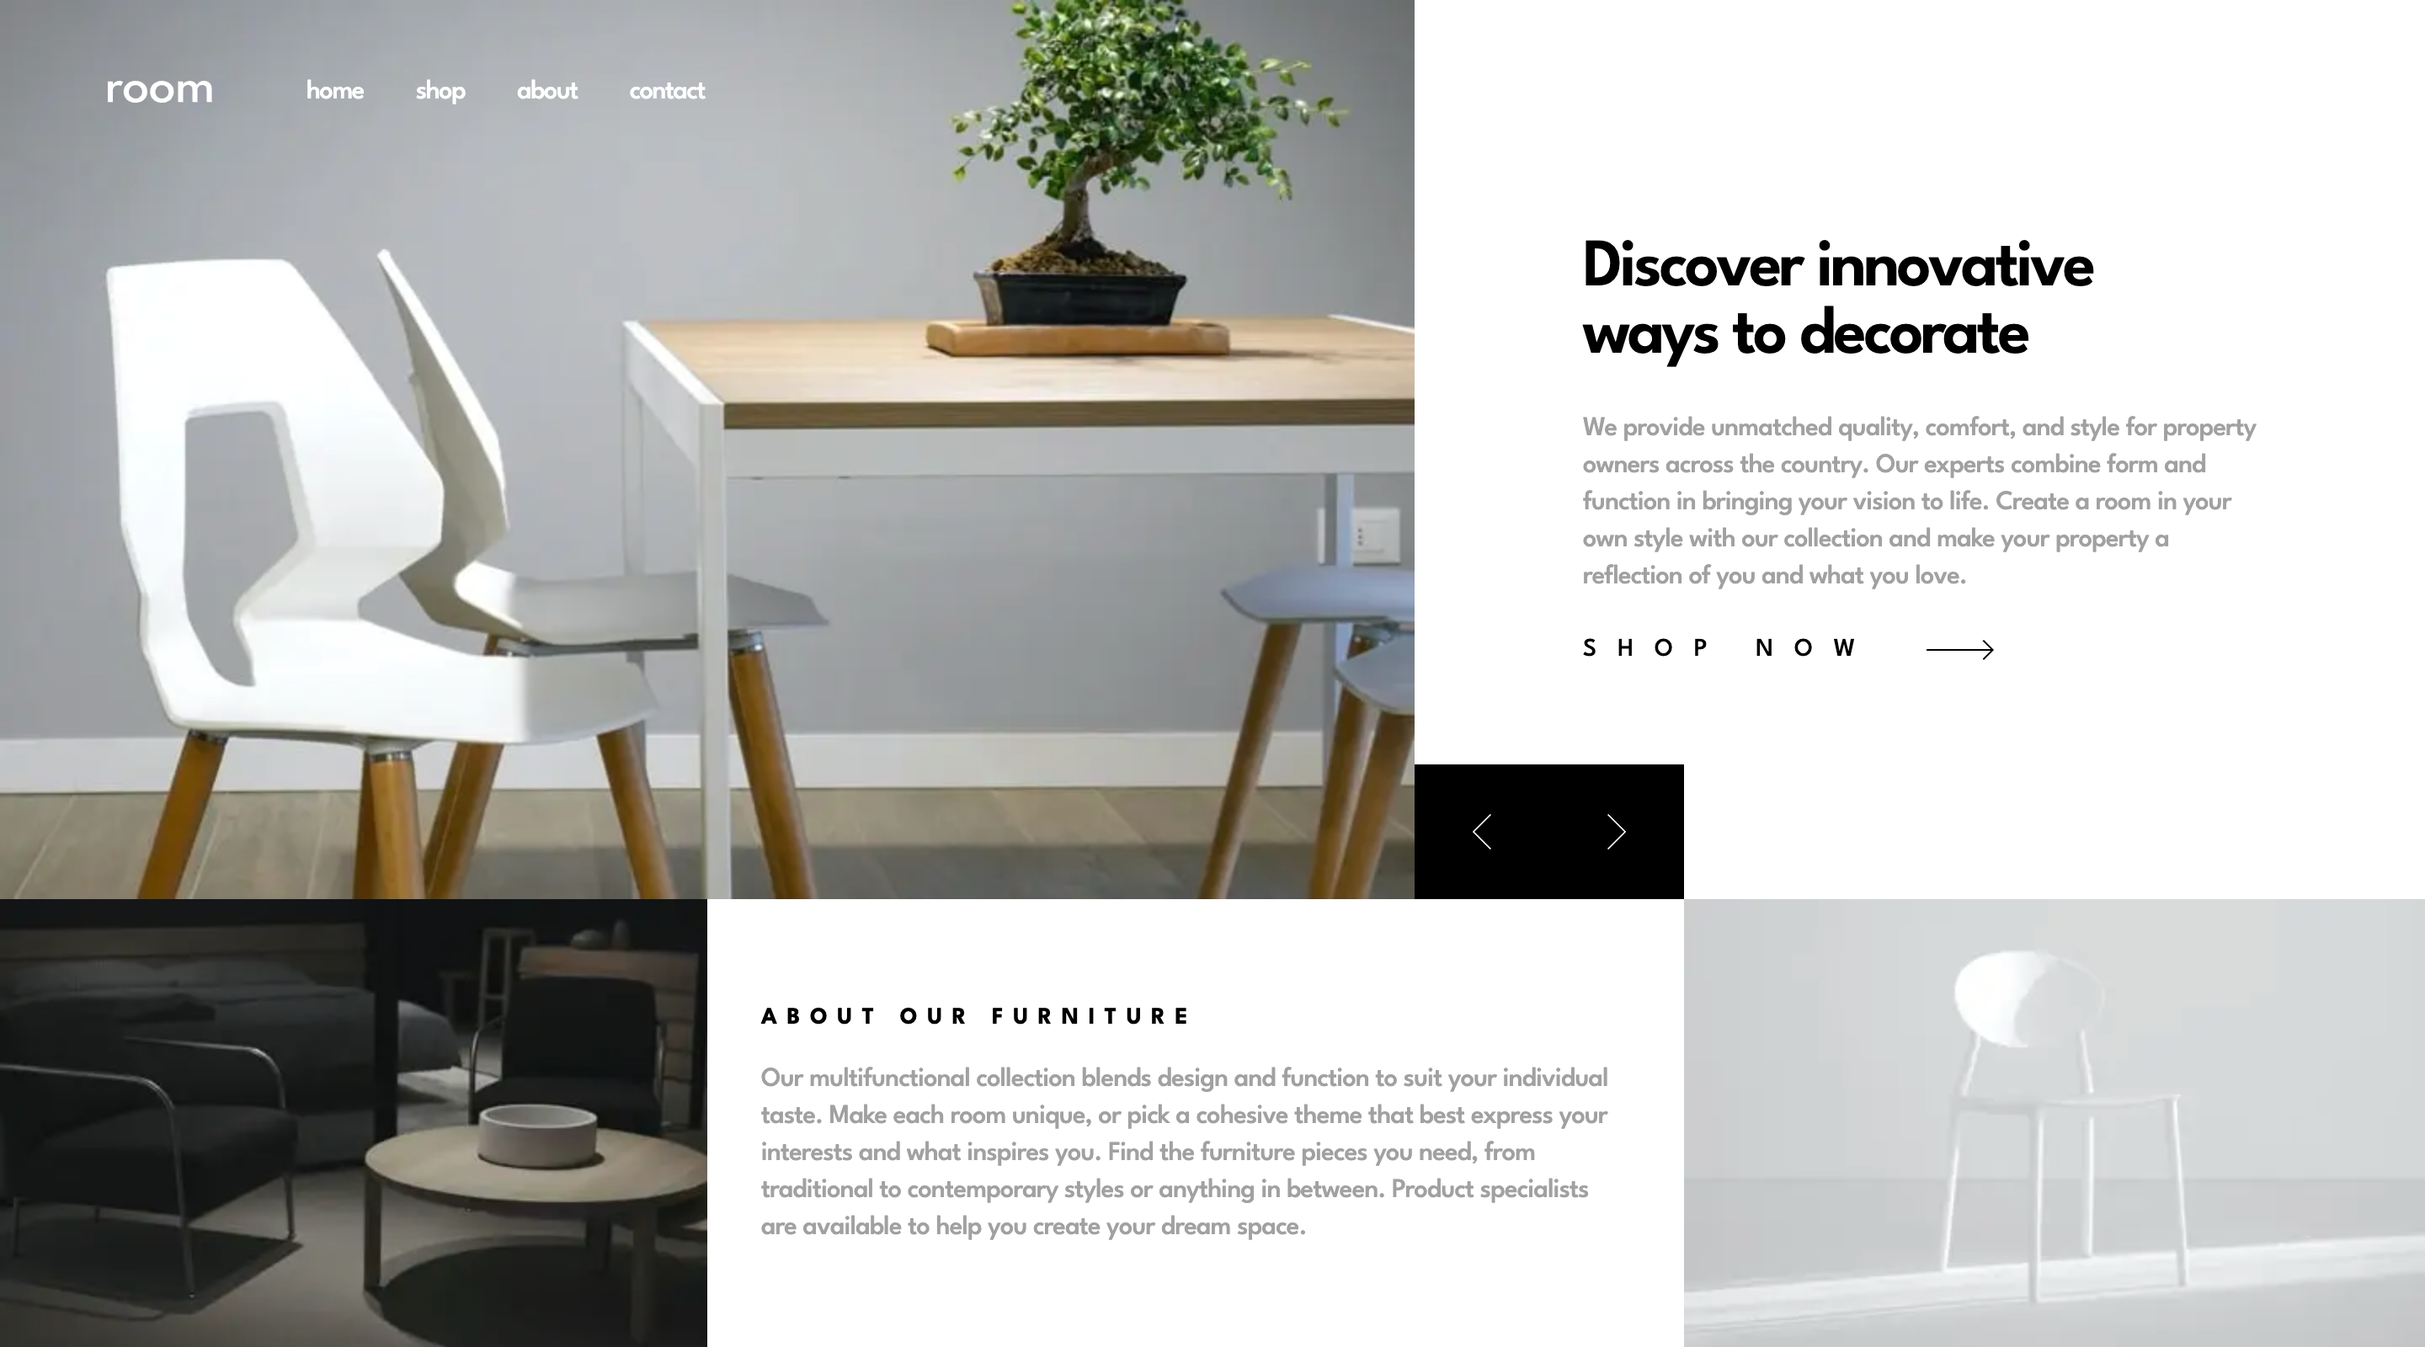
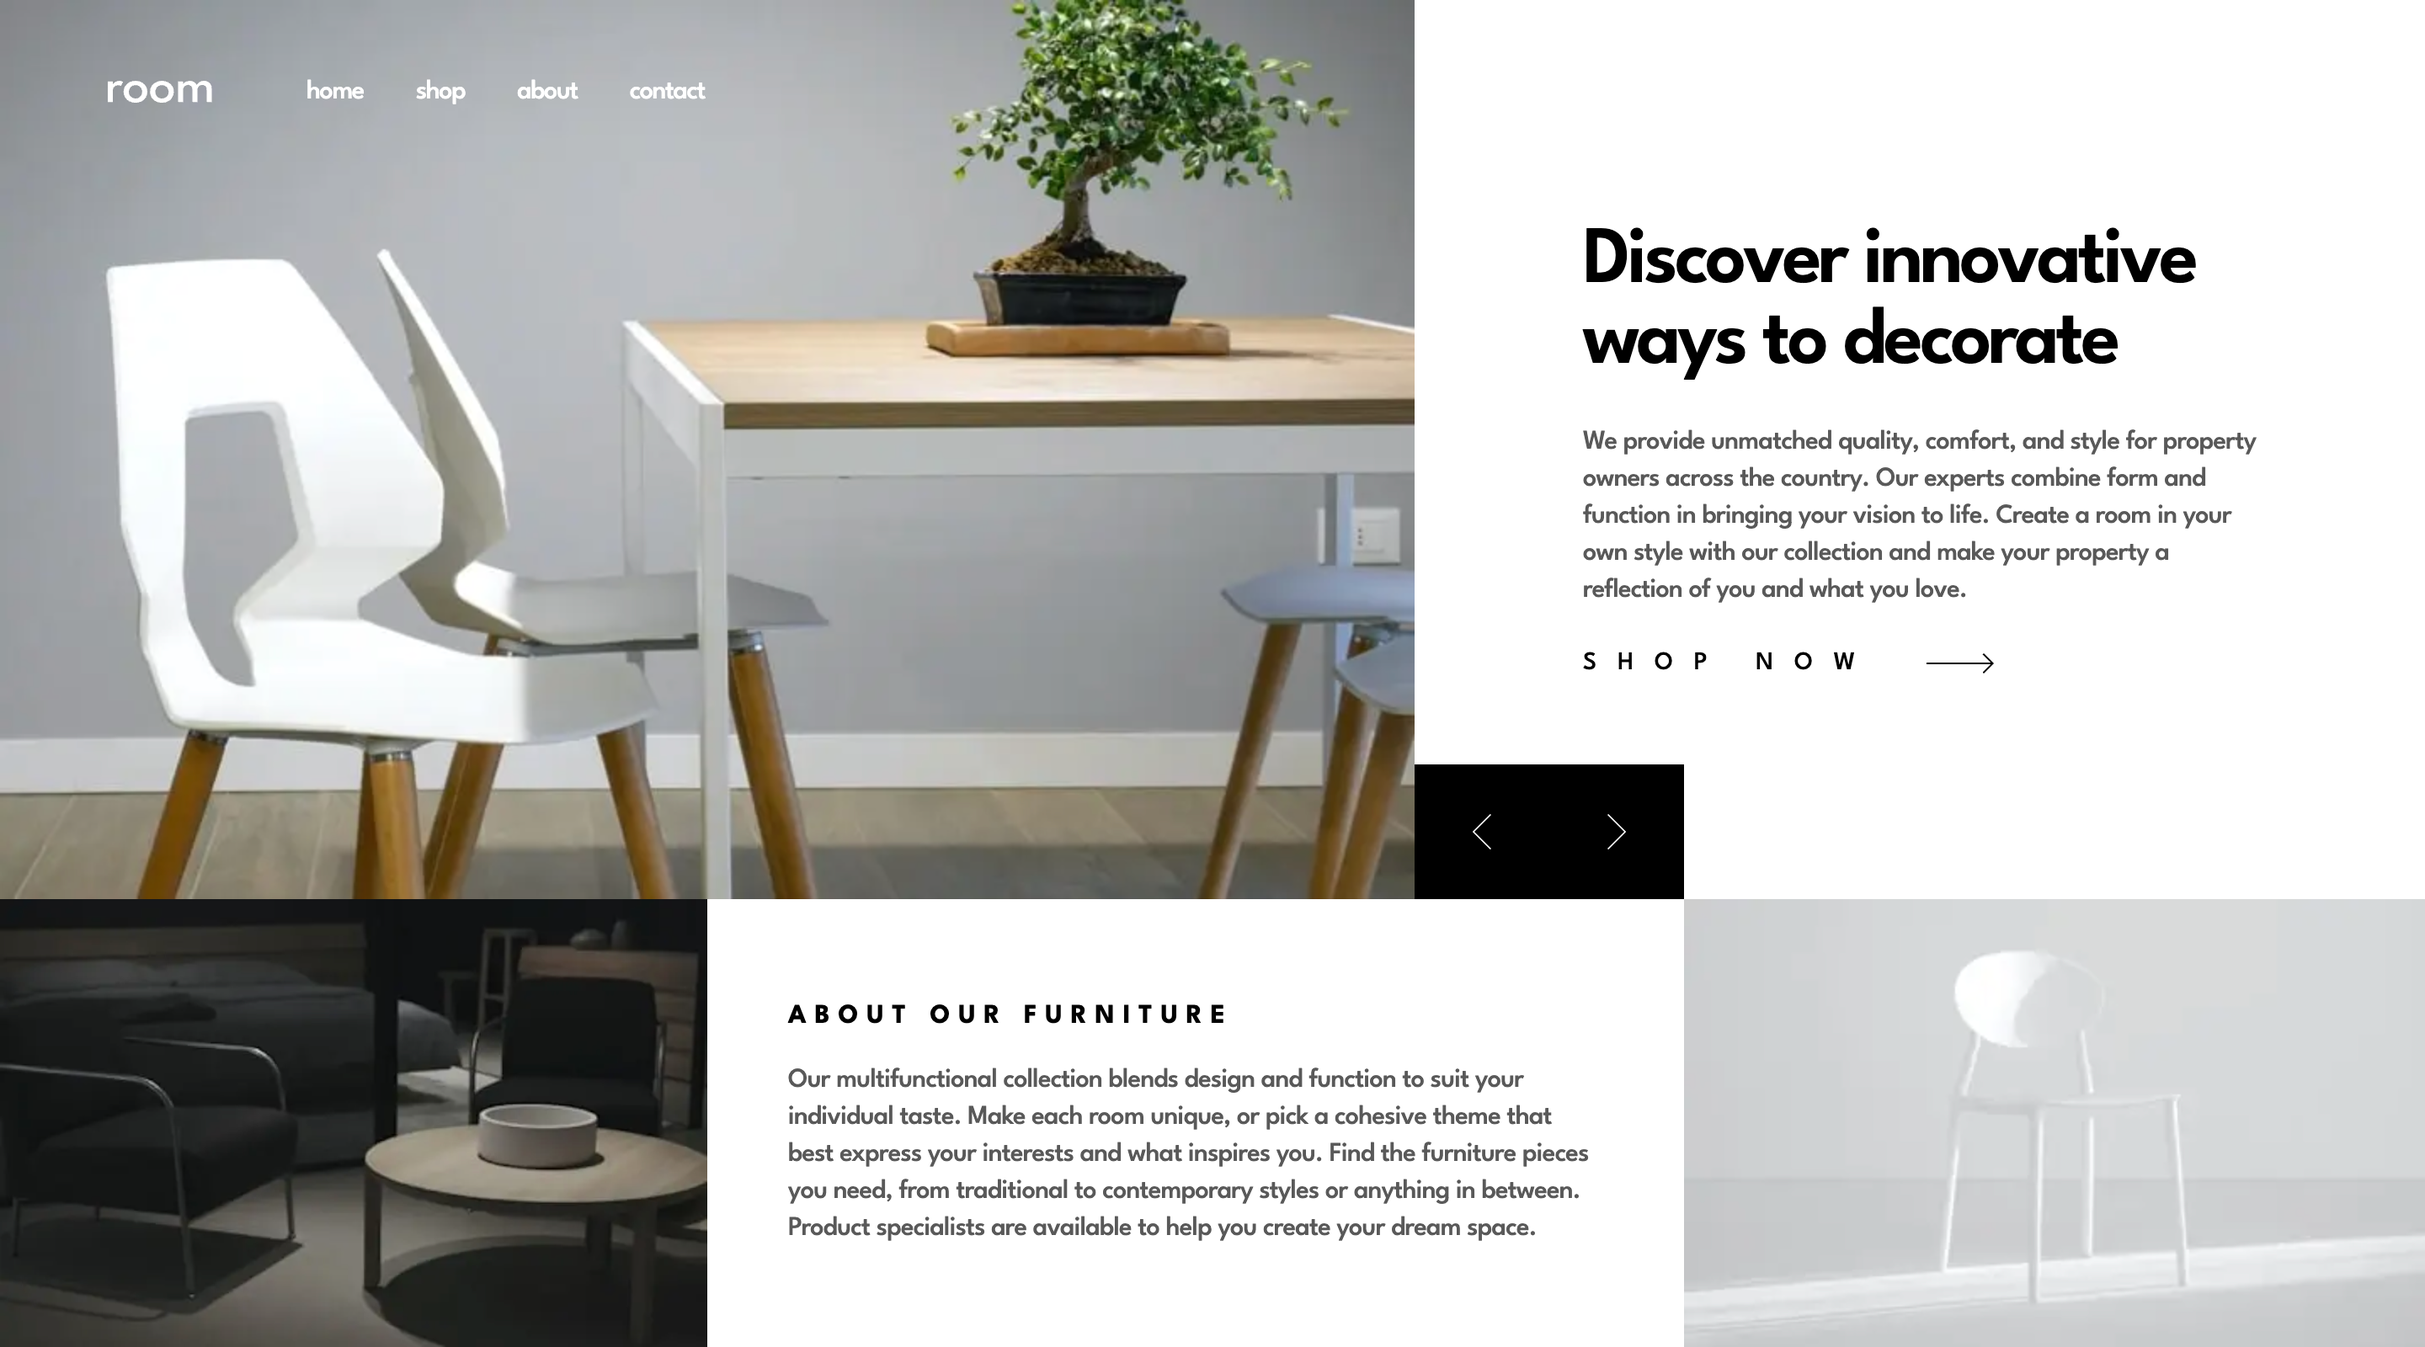
Fixed mobile to desktop font and spacing changes.

Changed region(s): [[0.3125, 0.75, 0.6562, 0.9375], [0.6562, 0.3125, 0.9375, 0.5], [0.6562, 0.1562, 0.9062, 0.2812]]

diff --git a/index.html b/index.html
@@ -27,12 +27,12 @@
 
       <button id="nav-menu-control" class="[ nav-menu-control ]" aria-expanded="false" aria-controls="primary-nav" aria-haspopup="true">
         <span class="[ visually-hidden ]">Open primary navigation menu</span>
-        <svg class="[ icon-hamburger ]" role="img" viewBox="0 0 20 14" width="20" height="14" aria-labelledby="icon-hamburger-title" xmlns="http://www.w3.org/2000/svg">
-          <title id="icon-hamburger-title">Open menu</title>
+        <svg class="[ icon-hamburger ]" role="img" viewBox="0 0 20 14" width="20" height="14" aria-labelledby="icon-open-menu" xmlns="http://www.w3.org/2000/svg">
+          <title id="icon-open-menu">Open menu</title>
           <path d="M20 12v2H0v-2h20zm0-6v2H0V6h20zm0-6v2H0V0h20z" fill-rule="evenodd"/>
         </svg>
-        <svg class="[ icon-close ]" role="img" viewBox="0 0 16 16" width="16" height="16" aria-labelledby="icon-close-title" xmlns="http://www.w3.org/2000/svg">
-          <title id="icon-close-title">Close menu</title>
+        <svg class="[ icon-close ]" role="img" viewBox="0 0 16 16" width="16" height="16" aria-labelledby="icon-close-menu" xmlns="http://www.w3.org/2000/svg">
+          <title id="icon-close-menu">Close menu</title>
           <path d="M14.364.222l1.414 1.414L9.414 8l6.364 6.364-1.414 1.414L8 9.414l-6.364 6.364-1.414-1.414L6.586 8 .222 1.636 1.636.222 8 6.586 14.364.222z" fill-rule="evenodd"/>
         </svg>
       </button>
@@ -73,7 +73,7 @@
               <div class="[ slide__text ]">
                 <h3 class="[ slide__heading ]">Discover innovative ways to decorate</h3>
                 <p class="[ slide__description ]">We provide unmatched quality, comfort, and style for property owners across the country. Our experts combine form and function in bringing your vision to life. Create a room in your own style with our collection and make your property a reflection of you and what you love.</p>
-                <a href="#" class="slide__link">Shop now <svg class="[ icon-arrow ]" role="img" viewBox="0 0 40 12" width="40" height="12" aria-labelledby="icon-arrow-title" xmlns="http://www.w3.org/2000/svg">
+                <a href="#" class="slide__link">Shop now <svg class="[ icon-arrow ]" aria-hidden="true" viewBox="0 0 40 12" width="40" height="12" xmlns="http://www.w3.org/2000/svg">
                     <title id="icon-arrow-title">Arrow</title>
                     <path d="M34.05 0l5.481 5.527h.008v.008L40 6l-.461.465v.063l-.062-.001L34.049 12l-.662-.668 4.765-4.805H0v-1h38.206l-4.82-4.86L34.05 0z" fill-rule="nonzero"/>
                   </svg>
@@ -90,7 +90,7 @@
               <div class="[ slide__text ]">
                 <h3 class="[ slide__heading ]">We are available all across the globe</h3>
                 <p class="[ slide__description ]">With stores all over the world, it's easy for you to find furniture for your home or place of business. Locally, we’re in most major cities throughout the country. Find the branch nearest you using our store locator. Any questions? Don't hesitate to contact us today.</p>
-                <a href="#" class="slide__link">Shop now <svg class="[ icon-arrow ]" role="img" viewBox="0 0 40 12" width="40" height="12" aria-labelledby="icon-arrow-title" xmlns="http://www.w3.org/2000/svg">
+                <a href="#" class="slide__link">Shop now <svg class="[ icon-arrow ]" aria-hidden="true" viewBox="0 0 40 12" width="40" height="12" xmlns="http://www.w3.org/2000/svg">
                     <title id="icon-arrow-title">Arrow</title>
                     <path d="M34.05 0l5.481 5.527h.008v.008L40 6l-.461.465v.063l-.062-.001L34.049 12l-.662-.668 4.765-4.805H0v-1h38.206l-4.82-4.86L34.05 0z" fill-rule="nonzero"/>
                   </svg>
@@ -107,7 +107,7 @@
               <div class="[ slide__text ]">
                 <h3 class="[ slide__heading ]">Manufactured with the best materials</h3>
                 <p class="[ slide__description ]">Our modern furniture store provide a high level of quality. Our company has invested in advanced technology to ensure that every product is made as perfect and as consistent as possible. With three decades of experience in this industry, we understand what customers want for their home and office.</p>
-                <a href="#" class="slide__link">Shop now <svg class="[ icon-arrow ]" role="img" viewBox="0 0 40 12" width="40" height="12" aria-labelledby="icon-arrow-title" xmlns="http://www.w3.org/2000/svg">
+                <a href="#" class="slide__link">Shop now <svg class="[ icon-arrow ]" aria-hidden="true" viewBox="0 0 40 12" width="40" height="12" xmlns="http://www.w3.org/2000/svg">
                     <title id="icon-arrow-title">Arrow</title>
                     <path d="M34.05 0l5.481 5.527h.008v.008L40 6l-.461.465v.063l-.062-.001L34.049 12l-.662-.668 4.765-4.805H0v-1h38.206l-4.82-4.86L34.05 0z" fill-rule="nonzero"/>
                   </svg>
@@ -118,14 +118,14 @@
 
           <div class="[ slider__controls ]">
             <button id="slider-control-prev">
-              <svg class="[ icon-angle-left ]" role="img" viewBox="0 0 14 24" width="14" height="24" aria-labelledby="icon-angle-left-title" xmlns="http://www.w3.org/2000/svg">
-                <title id="icon-angle-left-title">Angle left</title>
+              <svg class="[ icon-angle-left ]" role="img" viewBox="0 0 14 24" width="14" height="24" aria-labelledby="icon-move-slider-left" xmlns="http://www.w3.org/2000/svg">
+                <title id="icon-move-slider-left">Move slider left</title>
                 <path d="M13 0L1 12l12 12" fill="none" fill-rule="evenodd"/>
               </svg>
             </button>
             <button id="slider-control-next">
-              <svg class="[ icon-angle-right ]" role="img" viewBox="0 0 14 24" width="14" height="24" aria-labelledby="icon-angle-right-title" xmlns="http://www.w3.org/2000/svg">
-                <title id="icon-angle-right-title">Angle right</title>
+              <svg class="[ icon-angle-right ]" role="img" viewBox="0 0 14 24" width="14" height="24" aria-labelledby="icon-move-slider-right" xmlns="http://www.w3.org/2000/svg">
+                <title id="icon-move-slider-right">Move slider right</title>
                 <path d="M1 0l12 12L1 24" fill="none" fill-rule="evenodd"/>
               </svg>
             </button>

diff --git a/scss/_blocks.scss b/scss/_blocks.scss
@@ -67,6 +67,7 @@
 @media screen and (width <= 840px) {
   .header {
     justify-content: center;
+    padding-inline: 1.5rem; /* (m) 24px -> (d) 64px */
   }
 
   [aria-controls="primary-nav"] {
@@ -213,6 +214,18 @@
   text-transform: uppercase;
 }
 
+@media screen and (width > 840px) {
+  .slide__heading {
+    font-size: 3rem; /* (m) 40px -> (d) 48px */
+    letter-spacing: -2px; /* (m) -1.67px -> (d) -2px */
+  }
+
+  .section__heading {
+    font-size: 1rem; /* (m) 14px -> (d) 16px */
+    letter-spacing: 5px; /* (m) 5.83px -> (d) 5px */
+  }
+}
+
 .slide__description,
 .section__text {
   color: var(--clr-dark-gray);
@@ -256,6 +269,7 @@
   top: 360px;
   transform: translateY(-100%);
 }
+
 @media screen and (width > 840px) {
   .slider__controls {
     top: unset;
@@ -332,11 +346,18 @@
 }
 
 .about__text {
-  padding-inline: 2rem; /* (m) 32px -> (d) ? */
+  padding-inline: 2rem; /* (m) 32px -> (d) 48px */
   padding-block: 3.0625rem; /* (m) 49px -> (d) ? */
 
   display: grid;
   gap: 0.9375rem; /* (m) 15px -> (d) 16px */
+}
+
+@media screen and (width > 840px) {
+  .about__text {
+    padding-inline: 3rem; /* (m) 32px -> (d) 48px */
+    gap: 1rem; /* (m) 15px -> (d) 16px */
+  }
 }
 
 /* ----- END ----- */

diff --git a/css/style.css b/css/style.css
@@ -251,6 +251,7 @@ body {
 @media screen and (width <= 840px) {
   .header {
     justify-content: center;
+    padding-inline: 1.5rem; /* (m) 24px -> (d) 64px */
   }
   [aria-controls=primary-nav] {
     position: absolute;
@@ -377,6 +378,16 @@ body {
   text-transform: uppercase;
 }
 
+@media screen and (width > 840px) {
+  .slide__heading {
+    font-size: 3rem; /* (m) 40px -> (d) 48px */
+    letter-spacing: -2px; /* (m) -1.67px -> (d) -2px */
+  }
+  .section__heading {
+    font-size: 1rem; /* (m) 14px -> (d) 16px */
+    letter-spacing: 5px; /* (m) 5.83px -> (d) 5px */
+  }
+}
 .slide__description,
 .section__text {
   color: var(--clr-dark-gray);
@@ -491,11 +502,17 @@ body {
   }
 }
 .about__text {
-  padding-inline: 2rem; /* (m) 32px -> (d) ? */
+  padding-inline: 2rem; /* (m) 32px -> (d) 48px */
   padding-block: 3.0625rem; /* (m) 49px -> (d) ? */
   display: grid;
   gap: 0.9375rem; /* (m) 15px -> (d) 16px */
 }
 
+@media screen and (width > 840px) {
+  .about__text {
+    padding-inline: 3rem; /* (m) 32px -> (d) 48px */
+    gap: 1rem; /* (m) 15px -> (d) 16px */
+  }
+}
 /* ----- END ----- */
 /* ----- END ----- */

diff --git a/README.md b/README.md
@@ -45,33 +45,45 @@ Users should be able to:
 - Flexbox
 - CSS Grid
 - Mobile-first workflow
-- Fluid typography and spacing
 - Accessibility
 - CUBE CSS
 - Sass
 
 ### What I learned
 
-Resources I used:
+So many cool 😎 things. Resources I used:
 
+- PageSpeed Insights and Lighthouse Scores
+  - Current solution - [PageSpeed Insights Report from Jan 5, 2025, 2:18:39 PM](https://pagespeed.web.dev/analysis/https-elisilk-github-io-room-homepage/j2mugffcew)
+  - Initial solution - [PageSpeed Insights Report from Jan 5, 2025, 1:41:52 PM](https://pagespeed.web.dev/analysis/https-elisilk-github-io-room-homepage/zbvq0hpzy0)
 - [Fluid typography and spacing](https://royalfig.github.io/fluid-typography-calculator/)
 - [transfonter](https://transfonter.org/) - to convert [Google Font of League Spartan](https://fonts.google.com/specimen/League+Spartan) into a woff2 compressed form.
 - [`cwebp` command-line tool](https://web.dev/articles/serve-images-webp) - to convert JPEG images to the more modern, compressed WebP format.
+- [WAVE (web accessibility evaluation tool)](https://wave.webaim.org/report#/https://elisilk.github.io/room-homepage/) - Helped identify issues with contrast and id labels.
 - [Contrast Checker](https://webaim.org/resources/contrastchecker/) - The color constrast between the Dark Gray (#A0A0A0 / hsl(0, 0%, 63%)) text color (used in the main text areas) and the white background was not sufficient to pass the Web Content Accessibility Guidelines (WCAG). So I decided to go against the design and change the text color to the lightest gray color that does pass, which is #595959 / hsl(0,
   0%,
   35%).
-- PageSpeed Insights and Lighthouse Scores
-  - Current solution - [PageSpeed Insights Report from Jan 5, 2025, 1:41:52 PM](https://pagespeed.web.dev/analysis/https-elisilk-github-io-room-homepage/zbvq0hpzy0)
-  - Initial solution - [PageSpeed Insights Report from Jan 5, 2025, 1:41:52 PM](https://pagespeed.web.dev/analysis/https-elisilk-github-io-room-homepage/zbvq0hpzy0)
-
-So many cool 😎 things:
+- [Accessible SVG Icons](https://css-tricks.com/accessible-svg-icons/) - Made sure to indicate when an SVG icon is stand-alone and so needs a title to communicate its purpose. Versus when it has an accompanying text label and so is only decorative.
+- [`preload`](https://developer.mozilla.org/en-US/docs/Web/HTML/Attributes/rel/preload) - Still learning about how preloading works, how to implement it, and when it's effective, especially as relates to fonts (but also images).
+  - [Best practices for fonts](https://web.dev/articles/font-best-practices)
+  - [Preload critical assets to improve loading speed](https://web.dev/articles/preload-critical-assets)
+  - [Preload web fonts to improve loading speed](https://web.dev/articles/codelab-preload-web-fonts)
+- [A Quick Overview of `object-fit` and `object-position`](https://css-tricks.com/on-object-fit-and-object-position/) - Still trying to master how to use `object-fit` and `object-position` so that the images are resized in ways that work as the viewport is resized and are consistent with the intent of the design.
+- [CSS-Only Carousel](https://css-tricks.com/css-only-carousel/) - I love the CSS-only carousel rather than some heavier JavaScript implementation. However, although scrolling is an option, I did use JavaScript for the buttons as an enhancement.
+  - [`scrollTo()`](https://developer.mozilla.org/en-US/docs/Web/API/Element/scrollTo)
 
 ### Continued development
 
 Specific areas that the solution should be improved (known issues):
 
-- Prevent the slider from moving to a new slide when the tab button is pressed from one of the "Shop now" links to the next?
-- Hide the horizontal scrollbars on the slider?
+- Prevent the slider from moving to a new slide when the tab button is pressed so the focus does not shift from one of the "Shop now" links to the next. A promising solution idea is to dynamically set `tabindex="-1"` for slides that are not visible in the current viewport.
+  - [Control focus with tabindex](https://web.dev/articles/control-focus-with-tabindex)
+  - [Can I dynamically set tabindex in JavaScript?](https://stackoverflow.com/questions/3772438/can-i-dynamically-set-tabindex-in-javascript)
+  - [Element: `getBoundingClientRect()` method](https://developer.mozilla.org/en-US/docs/Web/API/Element/getBoundingClientRect)
+  - [Intersection Observer API](https://developer.mozilla.org/en-US/docs/Web/API/Intersection_Observer_API)
+  - [The Intersection Observer API explained](https://pawelgrzybek.com/the-intersection-observer-api-explained/)
+  - [How can I tell if a DOM element is visible in the current viewport?](https://stackoverflow.com/questions/123999/how-can-i-tell-if-a-dom-element-is-visible-in-the-current-viewport)
+- Hide the horizontal scrollbars on the slider.
   - [Using CSS to hide scrollbars without impacting scrolling](https://blog.logrocket.com/hide-scrollbar-without-impacting-scrolling-css/)
 
 More general ideas I want to consider:
@@ -83,7 +95,7 @@ Hmm 🤔 ...
 - [Kevin Powell on YouTube](https://www.youtube.com/@KevinPowell) - He's the best.
 - [Accessibility Developer Guide](https://www.accessibility-developer-guide.com/)
 - [MDN Web Docs for CSS](https://developer.mozilla.org/en-US/docs/Web/CSS) - Went here a lot to reference the different CSS properties and the shorthands, and all the great explanations about best practices.
-- [The Clamp Calculator](https://royalfig.github.io/fluid-typography-calculator/) - Used for all of fluid typography and fluid spacing calculations.
+- [The Clamp Calculator](https://royalfig.github.io/fluid-typography-calculator/) - Used for all of fluid typography and fluid spacing calculations. I didn't end up using it in this solution, but it's always there when I need it.
 
 ## Author
 
